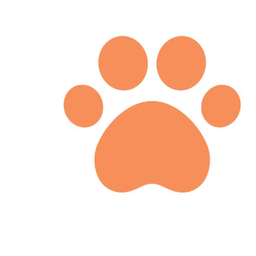
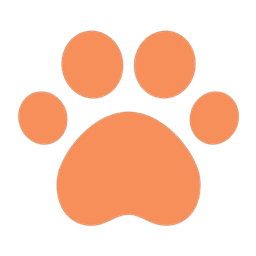
발바닥 커서 흰 배경 제거, 3인칭 카메라 벽 파묻힘/몸 숨김 깜빡임 수정, 애니메이터 컬링 해제
- paw.png: 원본의 흰 배경이 그대로 들어가 커서 뒤에 회색 네모가 보이던 문제 → 흰색을 투명 처리
- 3인칭: 회전 중심(오른쪽 비킴)도 벽 검사, 카메라 반경 0.16, 최소 거리 0.25
- 몸 숨김에 히스테리시스(0.75 미만 숨김 / 0.95 초과 표시)
- Animator를 AlwaysAnimate로 설정해 몸이 숨겨지거나 카메라가 몸 안에 있어도 포즈/팔 IK가 갱신되게

Claude-Session: https://claude.ai/code/session_012Rdq7EJKrPPsTrXLWdzLxF

Changed region(s): [[0.0625, 0.0938, 0.9688, 0.9062]]

diff --git a/Assets/Scripts/FirstPersonController.cs b/Assets/Scripts/FirstPersonController.cs
@@ -34,11 +34,14 @@ public class FirstPersonController : MonoBehaviour
     [Tooltip("조준점(화면 중앙)이 캐릭터를 가리지 않도록 캐릭터를 화면 왼쪽으로 비켜 세우는 거리")]
     public float aimSideOffset = 0.42f;
     public float shoulderOffset = 0.35f;
-    public float cameraRadius = 0.22f;
+    public float cameraRadius = 0.16f;
     public float fieldOfView = 55f;
     public float firstPersonFieldOfView = 65f;
     [Tooltip("벽에 밀려 카메라가 이 거리보다 가까워지면 몸을 숨깁니다 (몸이 화면을 가리지 않게)")]
-    public float hideBodyDistance = 1.0f;
+    public float hideBodyDistance = 0.75f;
+    [Tooltip("다시 이 거리보다 멀어지면 몸을 보입니다 (깜빡임 방지용 여유)")]
+    public float showBodyDistance = 0.95f;
+    private bool bodyHidden;
 
     [Header("Interaction")]
     [Tooltip("카메라에서 찾을 수 있는 최대 거리")]
@@ -93,6 +96,11 @@ public class FirstPersonController : MonoBehaviour
         characterController.stepOffset = 0.35f;
 
         animator = GetComponentInChildren<Animator>();
+        if (animator != null)
+        {
+            // 몸을 숨기거나 카메라가 몸 안에 있어도 애니메이션(과 LateUpdate의 팔 IK)이 계속 돌도록
+            animator.cullingMode = AnimatorCullingMode.AlwaysAnimate;
+        }
         FindBones();
         bodyRenderers = GetComponentsInChildren<SkinnedMeshRenderer>();
         LevelDatabase db = LevelDatabase.Load();
@@ -189,6 +197,7 @@ public class FirstPersonController : MonoBehaviour
     {
         viewMode = viewMode == ViewMode.ThirdPerson ? ViewMode.FirstPerson : ViewMode.ThirdPerson;
         if (viewMode == ViewMode.ThirdPerson) RestoreHead();
+        bodyHidden = false;
         SetBodyVisible(true);
         targetPitch = Mathf.Clamp(targetPitch, PitchMin, PitchMax);
         if (GameManager.Instance != null && GameManager.Instance.Hud != null)
@@ -310,18 +319,29 @@ public class FirstPersonController : MonoBehaviour
     void PlaceThirdPersonCamera()
     {
         Quaternion rotation = Quaternion.Euler(pitch, yaw, 0);
+        int mask = EnvironmentMask;
+        RaycastHit hit;
+
         // 회전 중심을 캐릭터 오른쪽으로 비켜 두면 캐릭터는 화면 왼쪽에, 조준점은 캐릭터 옆 빈 공간에 놓입니다.
-        Vector3 pivot = transform.position + Vector3.up * cameraHeight + Quaternion.Euler(0, yaw, 0) * Vector3.right * aimSideOffset;
+        // 오른쪽이 벽이면 그만큼만 비킵니다 (회전 중심이 벽 속으로 들어가면 카메라도 벽 속에 생깁니다).
+        Vector3 center = transform.position + Vector3.up * cameraHeight;
+        Vector3 side = Quaternion.Euler(0, yaw, 0) * Vector3.right;
+        float sideLength = aimSideOffset;
+        if (Physics.SphereCast(center, cameraRadius, side, out hit, aimSideOffset, mask, QueryTriggerInteraction.Ignore))
+        {
+            sideLength = Mathf.Max(0f, hit.distance - 0.05f);
+        }
+        Vector3 pivot = center + side * sideLength;
+
         Vector3 desired = pivot + rotation * new Vector3(shoulderOffset, 0, -cameraDistance);
         Vector3 dir = desired - pivot;
         float wanted = dir.magnitude;
         dir /= wanted;
 
         // 벽이나 가구에 카메라가 파묻히지 않게 당깁니다.
-        RaycastHit hit;
-        if (Physics.SphereCast(pivot, cameraRadius, dir, out hit, wanted, EnvironmentMask, QueryTriggerInteraction.Ignore))
+        if (Physics.SphereCast(pivot, cameraRadius, dir, out hit, wanted, mask, QueryTriggerInteraction.Ignore))
         {
-            wanted = Mathf.Max(hit.distance, 0.35f);
+            wanted = Mathf.Max(hit.distance, 0.25f);
         }
         // 가까워질 때는 바로, 멀어질 때는 천천히
         currentCameraDistance = wanted < currentCameraDistance
@@ -331,8 +351,10 @@ public class FirstPersonController : MonoBehaviour
         cam.position = pivot + dir * currentCameraDistance;
         cam.rotation = rotation;
 
-        // 좁은 방에서 카메라가 몸에 붙으면 몸이 화면을 다 가리므로 잠시 숨깁니다.
-        SetBodyVisible(currentCameraDistance >= hideBodyDistance);
+        // 좁은 방에서 카메라가 몸에 붙으면 몸이 화면을 다 가리므로 잠시 숨깁니다. (깜빡임 방지를 위해 숨김/표시 거리를 다르게)
+        if (!bodyHidden && currentCameraDistance < hideBodyDistance) bodyHidden = true;
+        else if (bodyHidden && currentCameraDistance > showBodyDistance) bodyHidden = false;
+        SetBodyVisible(!bodyHidden);
     }
 
     void PlaceFirstPersonCamera()
